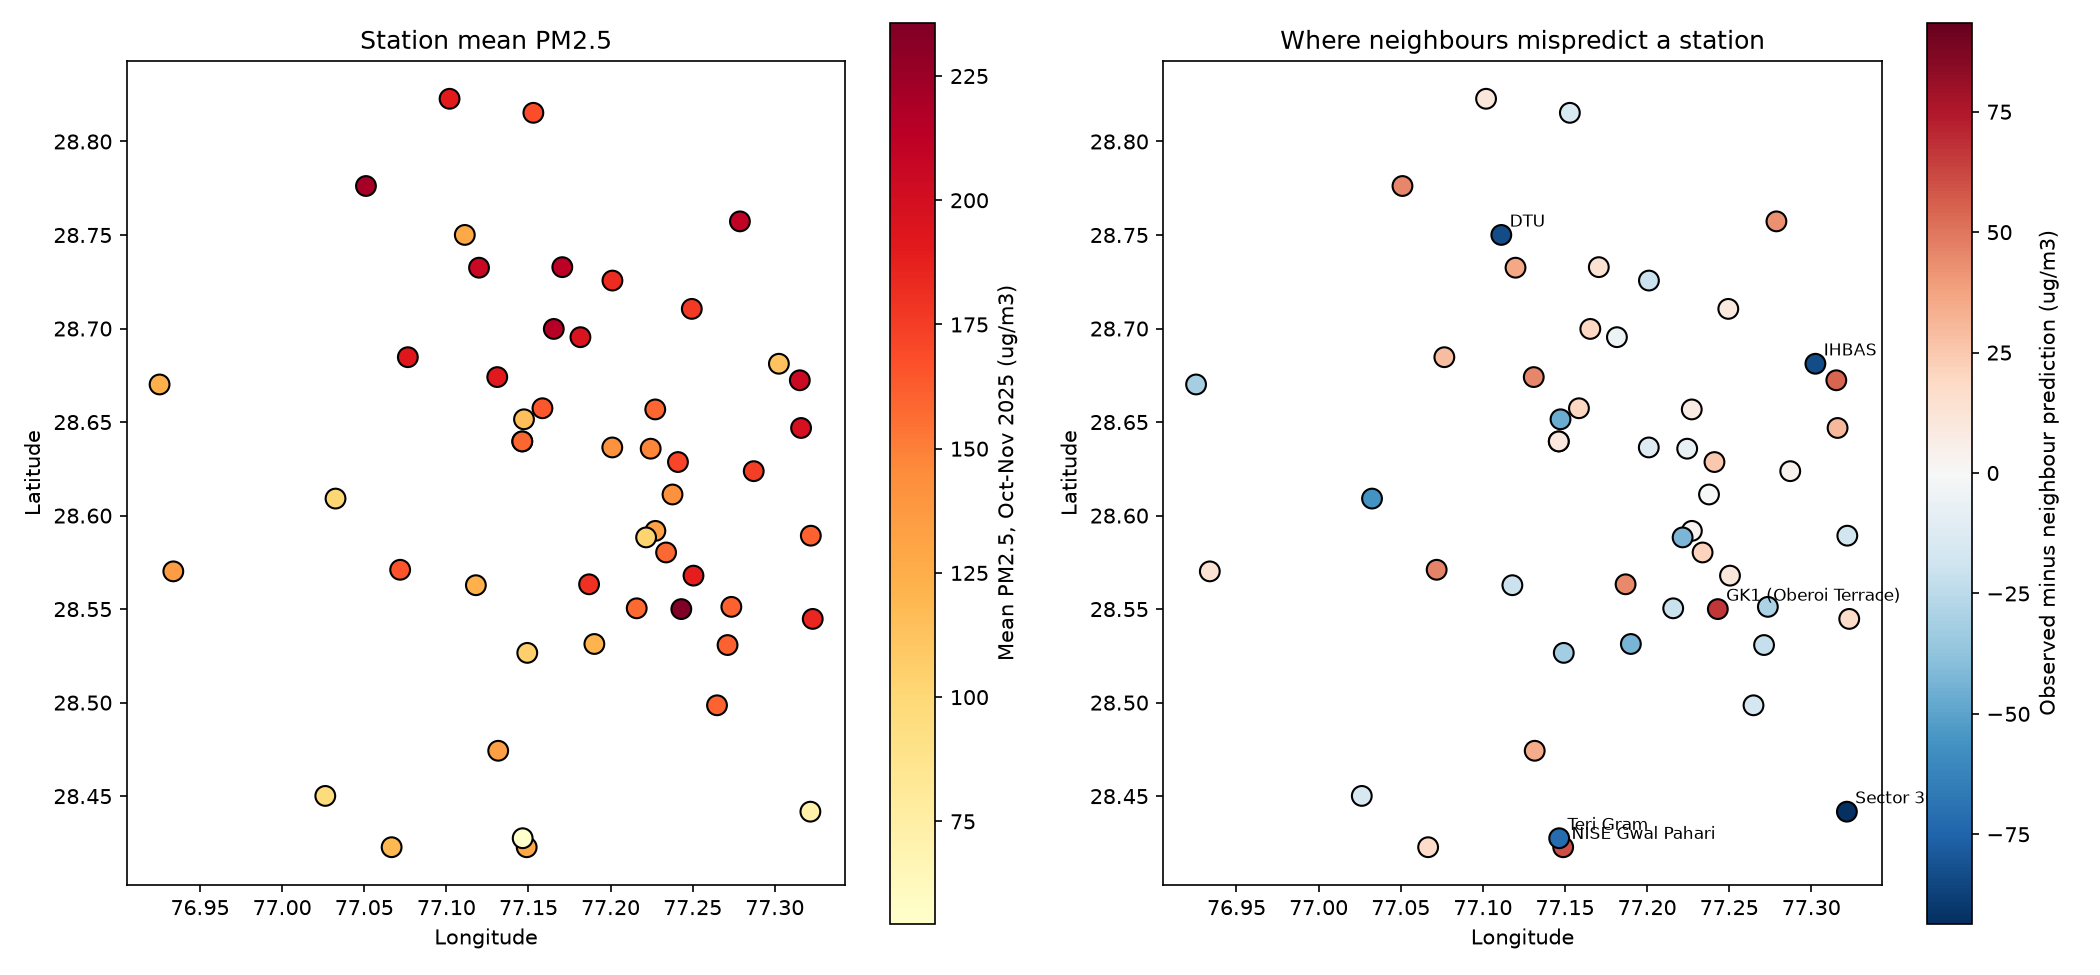
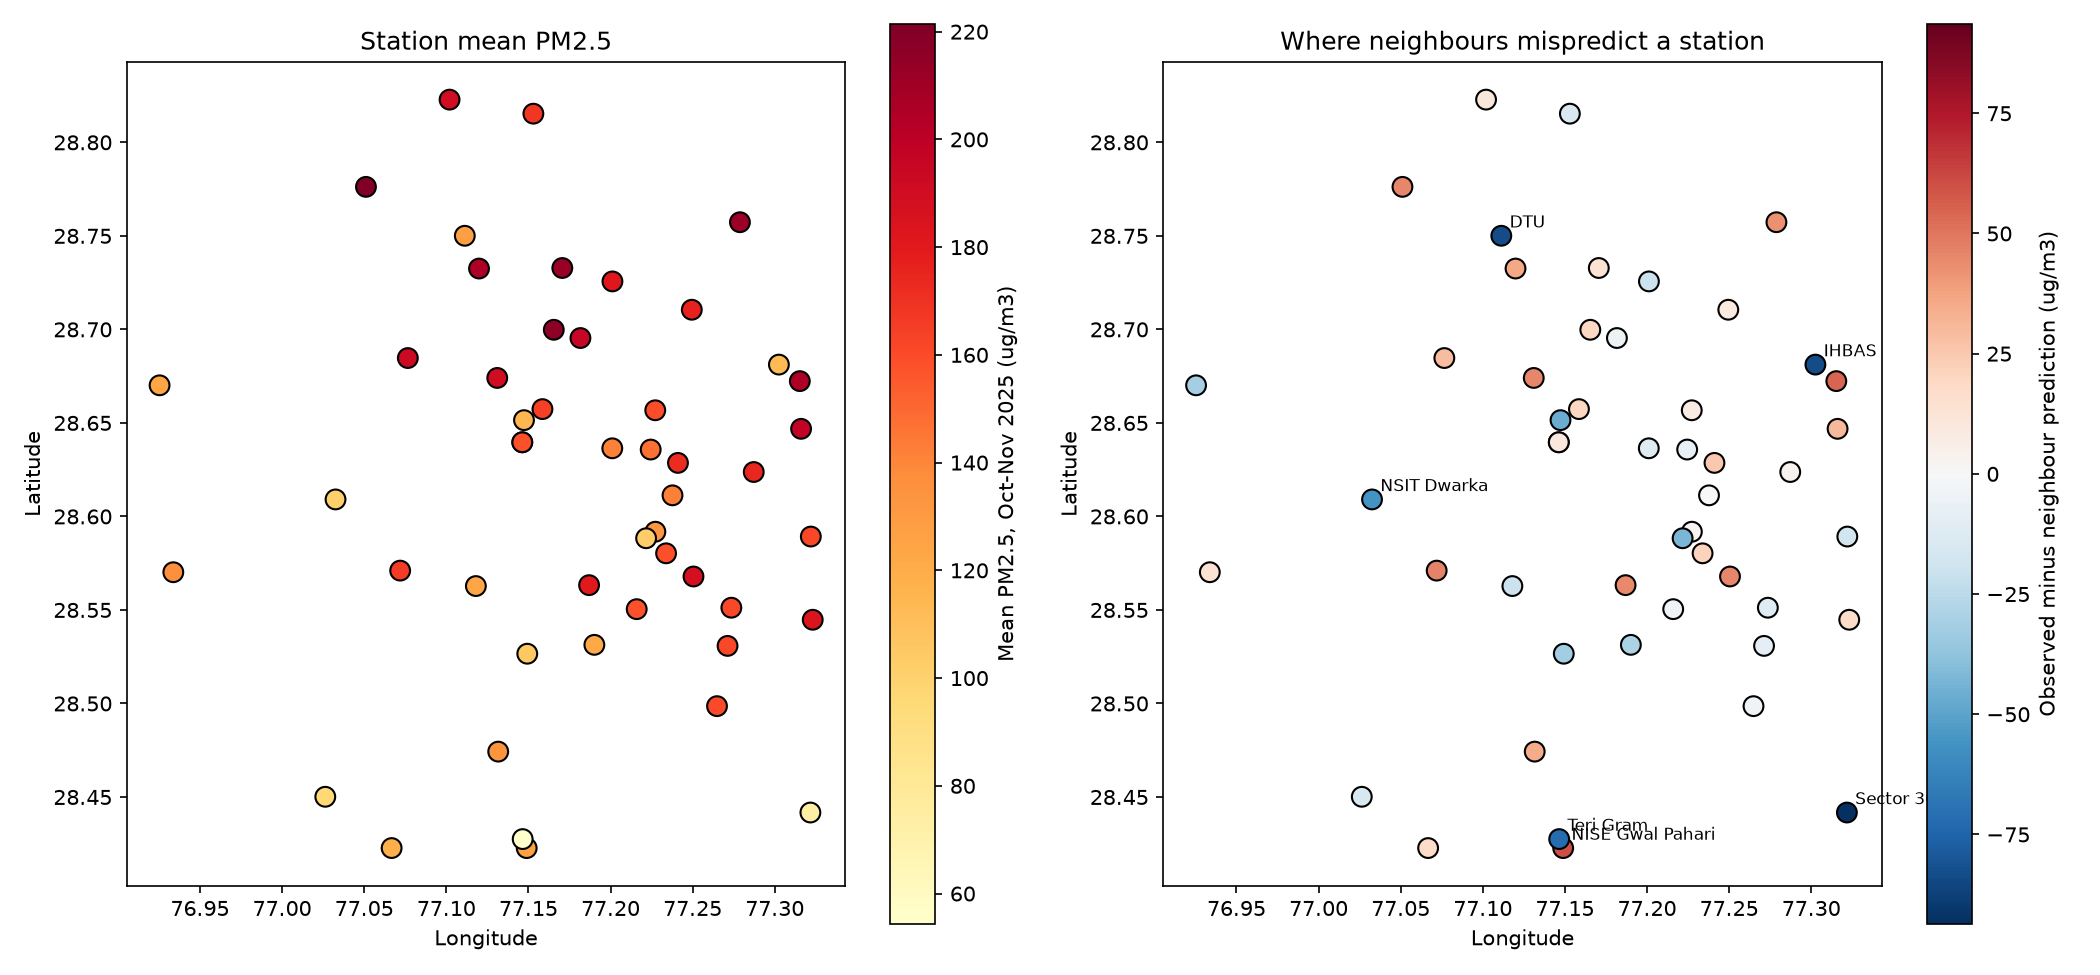
Agency residual analysis; co-located station queries

diff --git a/reports/data_log.md b/reports/data_log.md
@@ -111,3 +111,6 @@
 - Four of six strongest negative residuals are CPCB-labelled stations (DTU, IHBAS, NSIT, Shadipur). Possible network/instrument/siting effect; confounded with location; agency-level check pending.
 - GK1 (Oberoi Terrace) is +66.9 above its neighbours; 46 days, no agency label, may be a low-cost sensor (unverified).
 - Implication: spatial uncertainty is larger at the periphery and where stations are sparse; measurement differences between networks may contribute.
+- Residual by agency (n=50, GK1 excluded): CPCB -41.4 (n=6), DPCC +17.0 (n=24), HSPCB -39.0 (n=5, edge extrapolation), IMD +7.1 (n=8), UPPCB +14.1 (n=3).
+- CPCB-vs-DPCC gap (58 ug/m3) is large but confounded with location and based on 6 stations. Co-located pairs needed to separate network effects.
+- Possible duplicate station listings (same site, different IDs) may leak information in leave-one-station-out tests; being checked.
